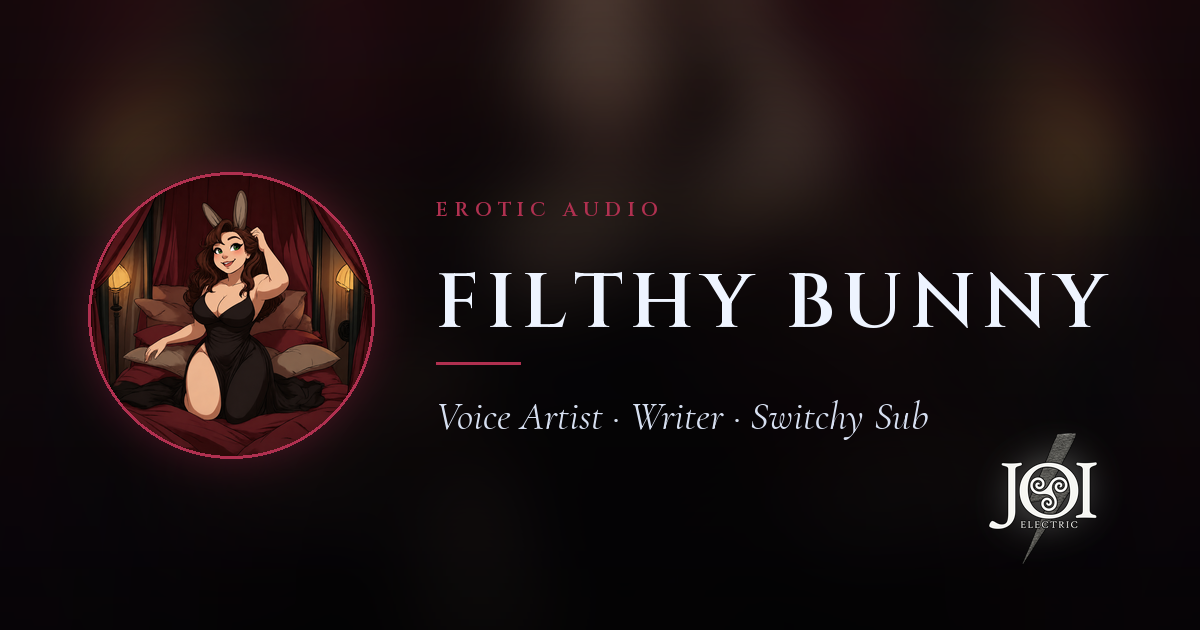
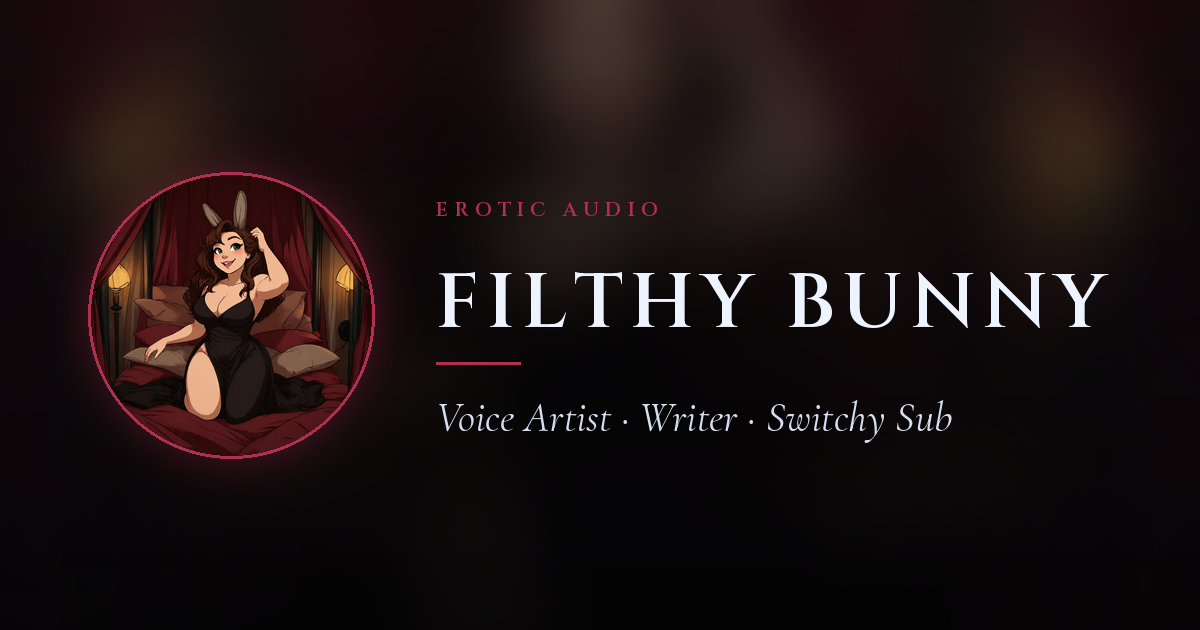
Let a creator's page be theirs, not the site's
A link to one of these pages arrived as JOI Electric's: the card carried the
JOI mark in its corner, the title read "Name · JOI Electric", the small label a
preview puts above the title said JOI Electric, and the footer said it again.
A creator sharing their own page should arrive as themselves, not as an advert
for whose server it is on.

So, for every creator but the owner:

- The card loses the mark. Their own icon would only repeat the avatar the card
  already shows, so the corner is left empty — and with nothing to keep clear
  of, the tagline now has the full width, which LaSphynxxx's needed.
- og:title, twitter:title and og:image:alt are their name alone.
- og:site_name names them rather than the site.
- The footer is their name and the age note.

The same was true of the pages the Content Manager serves, so /profile/<slug>
gets it too: a known creator is titled for themselves and names themselves as
the site. An unknown slug still falls back to the site, because that is not a
creator's page at all.

The card builder no longer defaults to the JOI mark either. The site's marks
stay in the list for whoever wants one.

Two mentions are deliberately left: joi-electric.html, which is the owner's own
page, and a sentence in MissKittenSK's biography about collaborating with JOI
Electric, which is something she did rather than branding.

Claude-Session: https://claude.ai/code/session_016pUHmashHX82QoXSd6GXXC

Changed region(s): [[0.37, 0.6333, 0.8017, 0.6937], [0.8325, 0.6937, 0.925, 0.8444]]

diff --git a/profiles/loona-licks.html b/profiles/loona-licks.html
@@ -10,16 +10,16 @@
        images/share/ — 1200x630, which is the shape every platform crops from.
        Regenerate it the way the others were made, or replace the file. -->
   <meta property="og:type" content="profile">
-  <meta property="og:site_name" content="JOI Electric">
+  <meta property="og:site_name" content="Loona Licks">
   <meta property="og:url" content="https://joielectric.com/profiles/loona-licks.html">
-  <meta property="og:title" content="Loona Licks · JOI Electric">
+  <meta property="og:title" content="Loona Licks">
   <meta property="og:description" content="Voice Artist · Collaborator · Currently on Hiatus">
   <meta property="og:image" content="https://joielectric.com/images/share/loona-licks.png">
   <meta property="og:image:width" content="1200">
   <meta property="og:image:height" content="630">
-  <meta property="og:image:alt" content="Loona Licks · JOI Electric">
+  <meta property="og:image:alt" content="Loona Licks">
   <meta name="twitter:card" content="summary_large_image">
-  <meta name="twitter:title" content="Loona Licks · JOI Electric">
+  <meta name="twitter:title" content="Loona Licks">
   <meta name="twitter:description" content="Voice Artist · Collaborator · Currently on Hiatus">
   <meta name="twitter:image" content="https://joielectric.com/images/share/loona-licks.png">
   <meta name="description" content="Voice Artist · Collaborator · Currently on Hiatus">
@@ -388,7 +388,7 @@
 </div>
 
 <footer>
-  Loona Licks &middot; JOI Electric &middot; 18+ only
+  Loona Licks &middot; 18+ only
 </footer>
 <script src="/js/site-config.js"></script>
 <script src="/js/audio.js"></script>

diff --git a/profiles/misskittenSK.html b/profiles/misskittenSK.html
@@ -11,16 +11,16 @@
        images/share/ — 1200x630, which is the shape every platform crops from.
        Regenerate it the way the others were made, or replace the file. -->
   <meta property="og:type" content="profile">
-  <meta property="og:site_name" content="JOI Electric">
+  <meta property="og:site_name" content="MissKittenSK">
   <meta property="og:url" content="https://joielectric.com/profiles/misskittenSK.html">
-  <meta property="og:title" content="MissKittenSK · JOI Electric">
+  <meta property="og:title" content="MissKittenSK">
   <meta property="og:description" content="A decade of debauched erotic audio · Retired">
   <meta property="og:image" content="https://joielectric.com/images/share/misskittenSK.png">
   <meta property="og:image:width" content="1200">
   <meta property="og:image:height" content="630">
-  <meta property="og:image:alt" content="MissKittenSK · JOI Electric">
+  <meta property="og:image:alt" content="MissKittenSK">
   <meta name="twitter:card" content="summary_large_image">
-  <meta name="twitter:title" content="MissKittenSK · JOI Electric">
+  <meta name="twitter:title" content="MissKittenSK">
   <meta name="twitter:description" content="A decade of debauched erotic audio · Retired">
   <meta name="twitter:image" content="https://joielectric.com/images/share/misskittenSK.png">
   <meta name="description" content="A decade of debauched erotic audio · Retired">
@@ -495,7 +495,7 @@
 </div>
 
 <footer>
-  MissKittenSK &middot; JOI Electric &middot; 18+ only
+  MissKittenSK &middot; 18+ only
 </footer>
 <script src="/js/site-config.js"></script>
 <script src="/js/audio.js"></script>

diff --git a/profiles/hisbadgirl77.html b/profiles/hisbadgirl77.html
@@ -11,16 +11,16 @@
        images/share/ — 1200x630, which is the shape every platform crops from.
        Regenerate it the way the others were made, or replace the file. -->
   <meta property="og:type" content="profile">
-  <meta property="og:site_name" content="JOI Electric">
+  <meta property="og:site_name" content="HisBadGirl77">
   <meta property="og:url" content="https://joielectric.com/profiles/hisbadgirl77.html">
-  <meta property="og:title" content="HisBadGirl77 · JOI Electric">
+  <meta property="og:title" content="HisBadGirl77">
   <meta property="og:description" content="Voice Artist · Writer · Collaborator">
   <meta property="og:image" content="https://joielectric.com/images/share/hisbadgirl77.png">
   <meta property="og:image:width" content="1200">
   <meta property="og:image:height" content="630">
-  <meta property="og:image:alt" content="HisBadGirl77 · JOI Electric">
+  <meta property="og:image:alt" content="HisBadGirl77">
   <meta name="twitter:card" content="summary_large_image">
-  <meta name="twitter:title" content="HisBadGirl77 · JOI Electric">
+  <meta name="twitter:title" content="HisBadGirl77">
   <meta name="twitter:description" content="Voice Artist · Writer · Collaborator">
   <meta name="twitter:image" content="https://joielectric.com/images/share/hisbadgirl77.png">
   <meta name="description" content="Voice Artist · Writer · Collaborator">
@@ -383,7 +383,7 @@
 </div>
 
 <footer>
-  HisBadGirl77 &middot; JOI Electric &middot; 18+ only
+  HisBadGirl77 &middot; 18+ only
 </footer>
 <script src="/js/site-config.js"></script>
 <script src="/js/audio.js"></script>

diff --git a/profiles/naughtiwolf.html b/profiles/naughtiwolf.html
@@ -11,16 +11,16 @@
        images/share/ — 1200x630, which is the shape every platform crops from.
        Regenerate it the way the others were made, or replace the file. -->
   <meta property="og:type" content="profile">
-  <meta property="og:site_name" content="JOI Electric">
+  <meta property="og:site_name" content="NaughtiWolf">
   <meta property="og:url" content="https://joielectric.com/profiles/naughtiwolf.html">
-  <meta property="og:title" content="NaughtiWolf · JOI Electric">
+  <meta property="og:title" content="NaughtiWolf">
   <meta property="og:description" content="Voice Artist · BFE · Narrative Collaborator">
   <meta property="og:image" content="https://joielectric.com/images/share/naughtiwolf.png">
   <meta property="og:image:width" content="1200">
   <meta property="og:image:height" content="630">
-  <meta property="og:image:alt" content="NaughtiWolf · JOI Electric">
+  <meta property="og:image:alt" content="NaughtiWolf">
   <meta name="twitter:card" content="summary_large_image">
-  <meta name="twitter:title" content="NaughtiWolf · JOI Electric">
+  <meta name="twitter:title" content="NaughtiWolf">
   <meta name="twitter:description" content="Voice Artist · BFE · Narrative Collaborator">
   <meta name="twitter:image" content="https://joielectric.com/images/share/naughtiwolf.png">
   <meta name="description" content="Voice Artist · BFE · Narrative Collaborator">
@@ -330,7 +330,7 @@
 </div>
 
 <footer>
-  NaughtiWolf &nbsp;&middot;&nbsp; JOI Electric &nbsp;&middot;&nbsp; 18+ only
+  NaughtiWolf &middot; 18+ only
 </footer>
 
 <script src="/js/site-config.js"></script>

diff --git a/profiles/la-sphynxxx.html b/profiles/la-sphynxxx.html
@@ -11,16 +11,16 @@
        images/share/ — 1200x630, which is the shape every platform crops from.
        Regenerate it the way the others were made, or replace the file. -->
   <meta property="og:type" content="profile">
-  <meta property="og:site_name" content="JOI Electric">
+  <meta property="og:site_name" content="LaSphynxxx">
   <meta property="og:url" content="https://joielectric.com/profiles/la-sphynxxx.html">
-  <meta property="og:title" content="LaSphynxxx · JOI Electric">
+  <meta property="og:title" content="LaSphynxxx">
   <meta property="og:description" content="Voice Artist · Singer · Free Content · Open Requests">
   <meta property="og:image" content="https://joielectric.com/images/share/la-sphynxxx.png">
   <meta property="og:image:width" content="1200">
   <meta property="og:image:height" content="630">
-  <meta property="og:image:alt" content="LaSphynxxx · JOI Electric">
+  <meta property="og:image:alt" content="LaSphynxxx">
   <meta name="twitter:card" content="summary_large_image">
-  <meta name="twitter:title" content="LaSphynxxx · JOI Electric">
+  <meta name="twitter:title" content="LaSphynxxx">
   <meta name="twitter:description" content="Voice Artist · Singer · Free Content · Open Requests">
   <meta name="twitter:image" content="https://joielectric.com/images/share/la-sphynxxx.png">
   <meta name="description" content="Voice Artist · Singer · Free Content · Open Requests">
@@ -370,7 +370,7 @@
 </div>
 
 <footer>
-  LaSphynxxx &middot; JOI Electric &middot; 18+ only
+  LaSphynxxx &middot; 18+ only
 </footer>
 
 <script src="/js/site-config.js"></script>

diff --git a/profiles/lotus-kitty.html b/profiles/lotus-kitty.html
@@ -11,16 +11,16 @@
        images/share/ — 1200x630, which is the shape every platform crops from.
        Regenerate it the way the others were made, or replace the file. -->
   <meta property="og:type" content="profile">
-  <meta property="og:site_name" content="JOI Electric">
+  <meta property="og:site_name" content="Lotus Kitty">
   <meta property="og:url" content="https://joielectric.com/profiles/lotus-kitty.html">
-  <meta property="og:title" content="Lotus Kitty · JOI Electric">
+  <meta property="og:title" content="Lotus Kitty">
   <meta property="og:description" content="Voice Artist · Demisexual · Storyteller">
   <meta property="og:image" content="https://joielectric.com/images/share/lotus-kitty.png">
   <meta property="og:image:width" content="1200">
   <meta property="og:image:height" content="630">
-  <meta property="og:image:alt" content="Lotus Kitty · JOI Electric">
+  <meta property="og:image:alt" content="Lotus Kitty">
   <meta name="twitter:card" content="summary_large_image">
-  <meta name="twitter:title" content="Lotus Kitty · JOI Electric">
+  <meta name="twitter:title" content="Lotus Kitty">
   <meta name="twitter:description" content="Voice Artist · Demisexual · Storyteller">
   <meta name="twitter:image" content="https://joielectric.com/images/share/lotus-kitty.png">
   <meta name="description" content="Voice Artist · Demisexual · Storyteller">
@@ -336,7 +336,7 @@
 </div>
 
 <footer>
-  Lotus Kitty &nbsp;&middot;&nbsp; JOI Electric &nbsp;&middot;&nbsp; 18+ only
+  Lotus Kitty &middot; 18+ only
 </footer>
 
 <script src="/js/site-config.js"></script>

diff --git a/profiles/filthy-bunny.html b/profiles/filthy-bunny.html
@@ -11,16 +11,16 @@
        images/share/ — 1200x630, which is the shape every platform crops from.
        Regenerate it the way the others were made, or replace the file. -->
   <meta property="og:type" content="profile">
-  <meta property="og:site_name" content="JOI Electric">
+  <meta property="og:site_name" content="Filthy Bunny">
   <meta property="og:url" content="https://joielectric.com/profiles/filthy-bunny.html">
-  <meta property="og:title" content="Filthy Bunny · JOI Electric">
+  <meta property="og:title" content="Filthy Bunny">
   <meta property="og:description" content="Voice Artist · Writer · Switchy Sub">
   <meta property="og:image" content="https://joielectric.com/images/share/filthy-bunny.png">
   <meta property="og:image:width" content="1200">
   <meta property="og:image:height" content="630">
-  <meta property="og:image:alt" content="Filthy Bunny · JOI Electric">
+  <meta property="og:image:alt" content="Filthy Bunny">
   <meta name="twitter:card" content="summary_large_image">
-  <meta name="twitter:title" content="Filthy Bunny · JOI Electric">
+  <meta name="twitter:title" content="Filthy Bunny">
   <meta name="twitter:description" content="Voice Artist · Writer · Switchy Sub">
   <meta name="twitter:image" content="https://joielectric.com/images/share/filthy-bunny.png">
   <meta name="description" content="Voice Artist · Writer · Switchy Sub">
@@ -379,7 +379,7 @@
 </div>
 
 <footer>
-  Filthy Bunny &middot; JOI Electric &middot; 18+ only
+  Filthy Bunny &middot; 18+ only
 </footer>
 
 <script src="/js/site-config.js"></script>

diff --git a/profiles/wellnobodysperfect.html b/profiles/wellnobodysperfect.html
@@ -11,16 +11,16 @@
        images/share/ — 1200x630, which is the shape every platform crops from.
        Regenerate it the way the others were made, or replace the file. -->
   <meta property="og:type" content="profile">
-  <meta property="og:site_name" content="JOI Electric">
+  <meta property="og:site_name" content="Well Nobody's Perfect">
   <meta property="og:url" content="https://joielectric.com/profiles/wellnobodysperfect.html">
-  <meta property="og:title" content="Well Nobody's Perfect · JOI Electric">
+  <meta property="og:title" content="Well Nobody's Perfect">
   <meta property="og:description" content="Voice Artist · Funny · Delightfully Unpredictable">
   <meta property="og:image" content="https://joielectric.com/images/share/wellnobodysperfect.png">
   <meta property="og:image:width" content="1200">
   <meta property="og:image:height" content="630">
-  <meta property="og:image:alt" content="Well Nobody's Perfect · JOI Electric">
+  <meta property="og:image:alt" content="Well Nobody's Perfect">
   <meta name="twitter:card" content="summary_large_image">
-  <meta name="twitter:title" content="Well Nobody's Perfect · JOI Electric">
+  <meta name="twitter:title" content="Well Nobody's Perfect">
   <meta name="twitter:description" content="Voice Artist · Funny · Delightfully Unpredictable">
   <meta name="twitter:image" content="https://joielectric.com/images/share/wellnobodysperfect.png">
   <meta name="description" content="Voice Artist · Funny · Delightfully Unpredictable">

diff --git a/netlify/functions/profile-page.js b/netlify/functions/profile-page.js
@@ -64,12 +64,16 @@ export default async (req) => {
   const avatarOnly = !card && known && profile.avatar;
   const image = card || avatarOnly || SITE.card;
 
-  // A creator's page is titled for them; an unknown slug is just the site.
-  const title = known ? `${name} · ${SITE.name}` : SITE.name;
+  // A creator's page is titled for them alone, and names them as the site it
+  // belongs to. A link to their page should arrive as them, not as the site
+  // they happen to be hosted on — the preview is theirs, not an advert for
+  // whose server it is. An unknown slug is just the site.
+  const title = known ? name : SITE.name;
 
   const tags = shareTags({
     url: `${url.origin}/profile/${encodeURIComponent(slug)}`,
     title,
+    siteName: known ? name : SITE.name,
     description: tagline,
     image: absolute(image, url.origin),
     // Only a built card is known to be 1200x630. An avatar is whatever shape

diff --git a/tools.html b/tools.html
@@ -5335,10 +5335,12 @@
       sel.innerHTML = opts
         .map(o => `<option value="${o.url}">${cmEsc(o.label)}</option>`)
         .join('');
-      // The site's mark, not the creator's own icon: for most creators that
-      // icon is the same picture as their avatar, and the card would then show
-      // it twice.
-      sel.value = '/images/JOI_Icon.png';
+      // No mark by default. A creator's card is theirs — a shared link should
+      // arrive as them and not as the site they happen to be hosted on — and
+      // their own icon is usually the same picture as their avatar, which the
+      // card already shows. The site's marks stay in the list for whoever
+      // wants one.
+      sel.value = '';
     }
 
     function pfCardOptions() {

diff --git a/netlify/functions/_share.js b/netlify/functions/_share.js
@@ -47,11 +47,14 @@ export const escapeHtml = (s) =>
  *  summary rather than declared a banner it is not and cropped to a band. */
 export function shareTags({
   url, title, description, image, type = "website", noindex = false, wide = true,
+  siteName = SITE.name,
 }) {
   const sized = image && wide;
   const meta = [
     ["og:type", type],
-    ["og:site_name", SITE.name],
+    // Usually the site. A creator's page names them instead: the small label a
+    // preview puts above the title should say whose page it is.
+    ["og:site_name", siteName],
     ["og:url", url],
     ["og:title", title],
     ["og:description", description],
